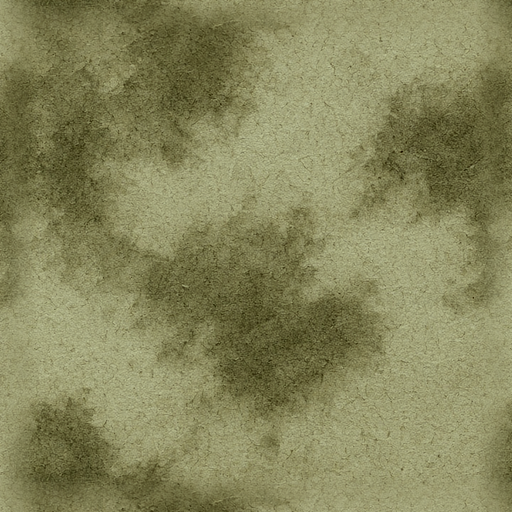
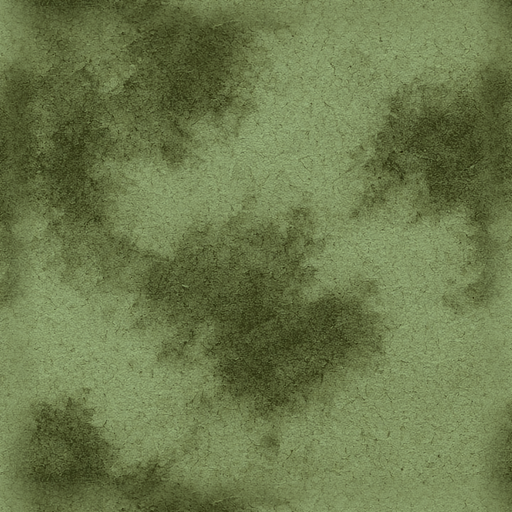
V2.81.51-three-polish.16: A&A homage + Risk-clear continent washes
Punch baked continent print ink so Europe olive / USSR tan / Africa
ochre read at 390 mid. Viz hexes, parchment grain, no IP clone.
Preview ?three=1 only.

diff --git a/src/map/threeMapSpike.js b/src/map/threeMapSpike.js
@@ -429,13 +429,13 @@ export async function bootThreeMapSpike() {
     }
   }
 
-  const hemi = new THREE.HemisphereLight(0xE8E0C8, 0x3D5A66, 0.68);
+  const hemi = new THREE.HemisphereLight(0xE8E0C8, 0x3D5A66, 0.72);
   scene.add(hemi);
-  const key = new THREE.DirectionalLight(0xFFF6E4, 0.98);
+  const key = new THREE.DirectionalLight(0xFFF6E4, 0.86);
   key.position.set(-62, 54, -36);
   scene.add(key);
   scene.add(key.target);
-  const fill = new THREE.DirectionalLight(0x9BB0B8, 0.28);
+  const fill = new THREE.DirectionalLight(0x9BB0B8, 0.32);
   fill.position.set(46, 32, 22);
   scene.add(fill);
 
@@ -443,7 +443,7 @@ export async function bootThreeMapSpike() {
   renderer.setPixelRatio(Math.min(window.devicePixelRatio || 1, 2));
   renderer.outputColorSpace = THREE.SRGBColorSpace;
   renderer.toneMapping = THREE.ACESFilmicToneMapping;
-  renderer.toneMappingExposure = 1.06;
+  renderer.toneMappingExposure = 1.00;
   const pmrem = new THREE.PMREMGenerator(renderer);
   scene.environment = pmrem.fromScene(new RoomEnvironment(), 0.04).texture;
   renderer.domElement.id = 'threeCanvas';

diff --git a/src/version.js b/src/version.js
@@ -3,7 +3,7 @@
 // multiplayer core (syncManager) can both import it without coupling UI code
 // into the sync path. Bump GAME_VERSION for every deployed change.
 
-export const GAME_VERSION = 'V2.81.51-three-polish.15';
+export const GAME_VERSION = 'V2.81.51-three-polish.16';
 
 // Schema version of the serialized game state (mirrors gameState.toJSON().version).
 // Bump only when the persisted state shape changes; a mismatch here is a harder

diff --git a/src/map/threeMapPalette.js b/src/map/threeMapPalette.js
@@ -49,7 +49,8 @@ export const PALETTE = {
   cream: '#F0E6D2',
 };
 
-// Viz AA-PALETTE continent washes — Risk glance, A&A print (18–28% over parchment).
+// Viz AA-PALETTE hexes. Baked as parchment grain + print ink so 390 mid
+// reads Risk-clear continents (AA-RISK-HOMAGE). Not a literal 28% mix.
 export const REGION_WASH = {
   Europe: '#6B7A4A',
   USSR: '#8A7355',

diff --git a/tools/bake-james-hecorrect.py b/tools/bake-james-hecorrect.py
@@ -24,7 +24,9 @@ BOARD = ROOT / 'assets/three/board'
 UNITS = ROOT / 'assets/three/units'
 CELL = 512
 
-# Viz AA-PALETTE continent washes — 18–28% over parchment (not candy Risk).
+# Viz AA-PALETTE continent washes. Hex tokens stay locked.
+# 18–28% literal RGB mix reads as one khaki planet after ACES.
+# Homage / Risk glance: parchment luminosity + stronger print ink.
 WASH_HEX = {
     'europe': (0x6B, 0x7A, 0x4A),
     'ussr': (0x8A, 0x73, 0x55),
@@ -36,6 +38,9 @@ WASH_HEX = {
     'oceania': (0x7A, 0x6B, 0x8A),
 }
 WASH_STRENGTH = 0.28
+# Colorize amount so Europe olive / USSR tan / Africa ochre survive 390.
+WASH_COLORIZE = 0.70
+WASH_CHROMA = 1.22
 LAND_BASE = (0xC4, 0xB8, 0x96)
 
 # James 4×2 hi-detail sheet (grey/olive plastics on parchment).
@@ -99,9 +104,21 @@ def colorize_keep_grain(im: Image.Image, rgb, strength=0.78) -> Image.Image:
 
 
 def wash_over_parchment(parchment: Image.Image, rgb, strength=WASH_STRENGTH) -> Image.Image:
-    """Parchment luminosity + continent hue. Grain stays; continents read at 390."""
-    dyed = colorize_keep_grain(parchment, rgb, 0.52)
-    return Image.blend(dyed, parchment, 0.12)
+    """Parchment grain + continent print ink. Soft, not a flat fill; Risk-readable at 390."""
+    arr = np.array(parchment, dtype=np.float32)
+    lum = (0.30 * arr[:, :, 0] + 0.59 * arr[:, :, 1] + 0.11 * arr[:, :, 2]) / 255.0
+    lum = np.clip((lum - 0.12) / 0.68, 0.40, 1.20)
+    target = np.array(rgb, dtype=np.float32)
+    printed = target * lum[..., None]
+    t = WASH_COLORIZE
+    out = arr * (1.0 - t) + printed * t
+    # Push hue apart (Europe green vs USSR brown vs Africa ochre) without flattening grain.
+    grey = out.mean(axis=2, keepdims=True)
+    out = grey + (out - grey) * WASH_CHROMA
+    # Tiny parchment return so it stays printed paper, not candy plastic.
+    paper = min(0.10, max(0.0, 0.28 - float(strength)))
+    out = out * (1.0 - paper) + arr * paper
+    return Image.fromarray(np.clip(out, 0, 255).astype(np.uint8), 'RGB')
 
 
 def height_to_normal(im: Image.Image, strength=2.4) -> Image.Image:
@@ -159,7 +176,7 @@ def bake_board():
 
     for slug, rgb in WASH_HEX.items():
         wash = wash_over_parchment(parchment, rgb, WASH_STRENGTH)
-        wash = ImageEnhance.Contrast(wash).enhance(1.08)
+        wash = ImageEnhance.Contrast(wash).enhance(1.14)
         wash.save(BOARD / f'wash-{slug}.png', 'PNG', optimize=True)
         print('wrote', BOARD / f'wash-{slug}.png')
 

diff --git a/BUGS.md b/BUGS.md
@@ -2,6 +2,19 @@
 
 ---
 
+## 9.18.26 — V2.81.51-three-polish.16 (preview only, SCHEMA 11)
+
+James A&A + Risk homage lock. Preview `?three=1` only. Do not merge. Pattern homage — no scanned board.
+
+1. **Land** — parchment grain + punched continent print ink (Viz hexes). Europe olive / USSR tan / Africa ochre / Asia sage must read at 390 mid. Not mono khaki GIS.
+2. **Ocean** — printed slate-teal `#3D5A66` / `#4F6E78`.
+3. **Units** — molded A&A plastic atlas (cream + faction rim). Keep MeshStandard + hemi/key + AO.
+4. **Light** — slightly cooler key/exposure so ACES does not crush washes back to one khaki planet.
+
+Open: Vercel `?three=1`. SCHEMA 11. GAME_VERSION V2.81.51-three-polish.16.
+
+---
+
 ## 9.18.26 — V2.81.51-three-polish.15 (preview only, SCHEMA 11)
 
 `PRODUCTION-PATH.md` is now **standing production SoT** (preview now; Canvas cutover later only with James yes) — not a one-off polish note. Every pass = director ladder fail-closed: bake → lights/AO → pinch → 390 scorecard. If SVG glance FAIL, iterate the same ladder without waiting for James.
